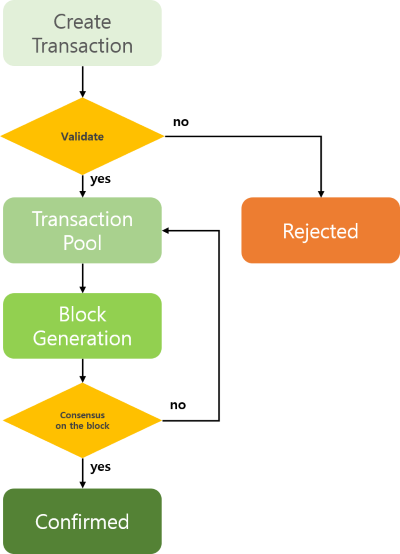
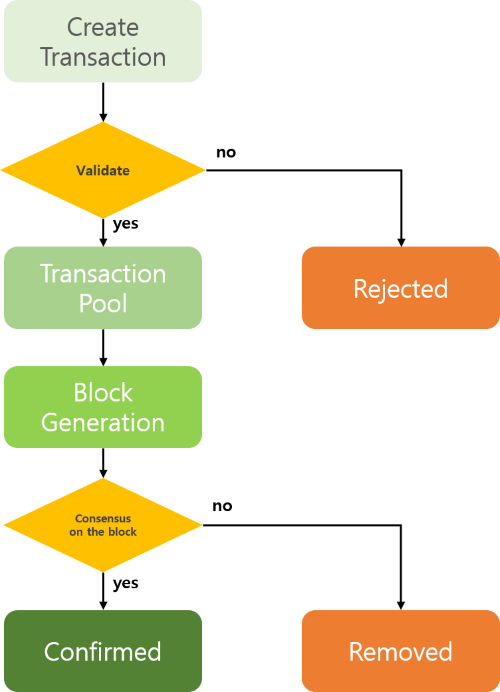
Supplement the transactions.md according to the feedback 1. Modify the flow chart of life cycle 2. Supplement the section 'Block Generation': explanation about the case of consensus failure

diff --git a/icon-key-concepts/transactions.md b/icon-key-concepts/transactions.md
@@ -38,7 +38,7 @@ The table below shows the data model of a transaction and their descriptions.
 | nid              | ICON network ID. Each ICON network has different rules and configurations (e.g. governance rules, fee policy). so even though you try to request the same transaction with the same state of the account, the result of the transaction can be different according to the network. |
 | data type        | Type of data for executing transaction. When executing a transaction, additional data is required according to the purpose of a transaction. For examples, when you call a SCORE method, you have to specify which method you want to call, arguments of the method, etc. Depending on the purpose, there are three kinds of type: `call`, `deploy`, and `message`. In the case of a simple coin transfer, the data type is omitted because there is no need for additional data.<br />`call`: It is used when calling a function in SCORE<br />`deploy`: It is used when installing or updating a SCORE<br />`message`: It is used when transferring a message |
 | signature        | The signature generated by the transaction sender. Generate transaction signature using above data (from, to, value, etc).  After generating the digital signature, if any of the above data is changed, it must be regenerated. The detail of generating transaction signature is defined in [How to Generate Transaction Signature](https://github.com/icon-project/documentation/blob/develop/howto/how-to-generate-a-transaction-signature.md). |
-| transaction hash | Hash data which is returned after pass the validation process of the transaction. Each transaction has a unique transaction hash. In other words, the transaction hash always has to be different from other transaction hash. |
+| transaction hash | Hash data which is returned after pass the validation process of the transaction (see the Life Cycle of Transaction's "Create Transaction" section below). Each transaction has a unique transaction hash. In other words, the transaction hash always has to be different from other transaction hash. |
 
 The specific information on transaction data, see the JSON-RPC APIs "icx_sendTransaction" section of the [ICON JSON-RPC API v3 Specification](https://github.com/icon-project/documentation/blob/develop/references/json-rpc/icon-json-rpc-v3.md) documentation.
 
@@ -56,7 +56,7 @@ In this stage, a transaction is waiting in the transaction pool before being put
 
 #### Block Generation
 
-In this stage, a transaction is put into a generated block. If the consensus is finally reached about the generated block (after consensus process), that block is connected to the blockchain, and  transactions in the block are recorded permanently.
+In this stage, a transaction is put into a generated block. If the consensus is finally reached about the generated block (after consensus process), that block is connected to the blockchain, and transactions in the block are recorded permanently. If the consensus on the block is failed, all transactions in that block are removed after a certain period of time. A word "removed" refers to being disappeared from the ICON network entirely. Therefore, the user who created and propagated the transaction needs to track the transaction until it is recorded on the blockchain (i.e. confirmed).
 
 #### Confirmed
 
@@ -70,5 +70,4 @@ If you get the transaction hash as a response of sending transaction to the ICON
 
 #### Check the Transaction Confirmation
 
-You can check if the transaction is confirmed or pending using "icx_getTransactionResult" JSON-RPC API. "pending" means that a transaction is on the transaction pool or block generation stage. The specific information about this, see the JSON-RPC APIs "icx_getTransactionResult" section of the [ICON JSON-RPC API v3 Specification](https://github.com/icon-project/documentation/blob/develop/references/json-rpc/icon-json-rpc-v3.md) documentation.
-
+You can check if the transaction is confirmed or pending using "icx_getTransactionResult" JSON-RPC API. "pending" means that a transaction is on the transaction pool or block generation stage (exceptionally in the case of consensus failure on the block, it can be temporarily marked as "pending"). The specific information about this, see the JSON-RPC APIs "icx_getTransactionResult" section of the [ICON JSON-RPC API v3 Specification](https://github.com/icon-project/documentation/blob/develop/references/json-rpc/icon-json-rpc-v3.md) documentation.
